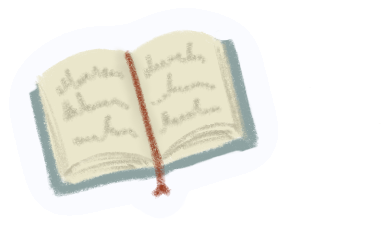
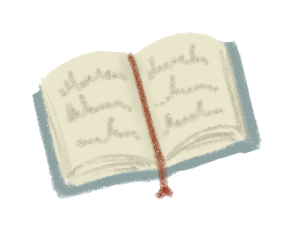
Regenerate every die cut at one uniform width
The borders were drawn by hand at six different scales: measured against each
drawing's own height they ran from 7.6% on the controller to 13.3% on the
plane. That spread is what read as inconsistent, not the drawings.

Each sticker is now rebuilt from Uju's source export: the hand-drawn white is
stripped and a new border grown from the artwork's own alpha at 8% of its
longest edge. Same rule for all six, so they are consistent by construction
rather than by eye.

Stripping the old white changed the proportions, so the placement block is
regenerated from the new aspects. All six render at exactly 190px tall.

Source exports are untouched.

diff --git a/index.html b/index.html
@@ -31,7 +31,7 @@
         href="https://fonts.googleapis.com/css2?family=Mona+Sans:wght@400;500;700;800&display=swap">
 
   <!-- bump ?v= when you edit these, so browsers pick up the change -->
-  <link rel="stylesheet" href="css/style.css?v=39">
+  <link rel="stylesheet" href="css/style.css?v=40">
 
   <!-- Artwork can be .png or .svg. Try png, then svg, then show the word (or a blank cover).
        Defined here because images start loading before the body script runs. -->
@@ -77,55 +77,55 @@
            whole idea, so keep it if you restyle these. -->
       <div class="stage" id="stage">
         <figure class="me">
-          <img src="assets/me-in-bubble.png?v=39" alt="Uju, sitting cross-legged and reading"
-               onerror="pickFormat(this, 'assets/me-in-bubble.svg?v=39')">
+          <img src="assets/me-in-bubble.png?v=40" alt="Uju, sitting cross-legged and reading"
+               onerror="pickFormat(this, 'assets/me-in-bubble.svg?v=40')">
           <figcaption class="placeholder-note">assets/me-in-bubble.png</figcaption>
         </figure>
 
         <button class="sticker" data-sound="reading" data-started>
           <span class="sticker-inner">
-            <img class="sticker-art" src="assets/stickers/reading.png?v=39" alt=""
-                 onerror="pickFormat(this, 'assets/stickers/reading.svg?v=39')">
+            <img class="sticker-art" src="assets/stickers/reading.png?v=40" alt=""
+                 onerror="pickFormat(this, 'assets/stickers/reading.svg?v=40')">
             <span class="sticker-shine" aria-hidden="true"></span>
             <span class="sticker-label">Reading</span>
           </span>
         </button>
         <button class="sticker" data-sound="plane">
           <span class="sticker-inner">
-            <img class="sticker-art" src="assets/stickers/plane.png?v=39" alt=""
-                 onerror="pickFormat(this, 'assets/stickers/plane.svg?v=39')">
+            <img class="sticker-art" src="assets/stickers/plane.png?v=40" alt=""
+                 onerror="pickFormat(this, 'assets/stickers/plane.svg?v=40')">
             <span class="sticker-shine" aria-hidden="true"></span>
             <span class="sticker-label">Travel</span>
           </span>
         </button>
         <button class="sticker" data-sound="singing">
           <span class="sticker-inner">
-            <img class="sticker-art" src="assets/stickers/singing.png?v=39" alt=""
-                 onerror="pickFormat(this, 'assets/stickers/singing.svg?v=39')">
+            <img class="sticker-art" src="assets/stickers/singing.png?v=40" alt=""
+                 onerror="pickFormat(this, 'assets/stickers/singing.svg?v=40')">
             <span class="sticker-shine" aria-hidden="true"></span>
             <span class="sticker-label">Singing</span>
           </span>
         </button>
         <button class="sticker" data-sound="guitar">
           <span class="sticker-inner">
-            <img class="sticker-art" src="assets/stickers/guitar.png?v=39" alt=""
-                 onerror="pickFormat(this, 'assets/stickers/guitar.svg?v=39')">
+            <img class="sticker-art" src="assets/stickers/guitar.png?v=40" alt=""
+                 onerror="pickFormat(this, 'assets/stickers/guitar.svg?v=40')">
             <span class="sticker-shine" aria-hidden="true"></span>
             <span class="sticker-label">Guitar</span>
           </span>
         </button>
         <button class="sticker" data-sound="drawing">
           <span class="sticker-inner">
-            <img class="sticker-art" src="assets/stickers/drawing.png?v=39" alt=""
-                 onerror="pickFormat(this, 'assets/stickers/drawing.svg?v=39')">
+            <img class="sticker-art" src="assets/stickers/drawing.png?v=40" alt=""
+                 onerror="pickFormat(this, 'assets/stickers/drawing.svg?v=40')">
             <span class="sticker-shine" aria-hidden="true"></span>
             <span class="sticker-label">Drawing</span>
           </span>
         </button>
         <button class="sticker" data-sound="games">
           <span class="sticker-inner">
-            <img class="sticker-art" src="assets/stickers/games.png?v=39" alt=""
-                 onerror="pickFormat(this, 'assets/stickers/games.svg?v=39')">
+            <img class="sticker-art" src="assets/stickers/games.png?v=40" alt=""
+                 onerror="pickFormat(this, 'assets/stickers/games.svg?v=40')">
             <span class="sticker-shine" aria-hidden="true"></span>
             <span class="sticker-label">Games</span>
           </span>
@@ -227,8 +227,8 @@
     <p class="footer-fine">© <span id="year">2026</span> Uju Duru</p>
   </footer>
 
-  <script src="js/site.js?v=39"></script>
-  <script src="js/stickers.js?v=39"></script>
-  <script src="js/carousel.js?v=39"></script>
+  <script src="js/site.js?v=40"></script>
+  <script src="js/stickers.js?v=40"></script>
+  <script src="js/carousel.js?v=40"></script>
 </body>
 </html>

diff --git a/css/style.css b/css/style.css
@@ -229,21 +229,23 @@ a { color: inherit; }
 
 /* ---------- Sticker placement ----------
    Kept here rather than inline so the mobile block below can
-   override it; inline styles would win over any media query. */
-.sticker[data-sound="reading"] { --x: 23.9%; --y: 18.3%; --tilt: -13deg; --size: clamp(88px, 44.00cqh, 484px); }
+   override it; inline styles would win over any media query.
+   --size drives the LONGEST edge, so a wide drawing needs a bigger
+   box to end up the same height as a tall one. */
+.sticker[data-sound="reading"] { --x: 23.9%; --y: 18.3%; --tilt: -13deg; --size: clamp(58px, 29.17cqh, 321px); }
 .sticker[data-sound="singing"] { --x: 13.8%; --y: 52.1%; --tilt: 10deg; --size: clamp(50px, 25.00cqh, 275px); }
 .sticker[data-sound="drawing"] { --x: 26.3%; --y: 80.6%; --tilt: -4deg; --size: clamp(50px, 25.00cqh, 275px); }
 .sticker[data-sound="plane"] { --x: 76.1%; --y: 18.3%; --tilt: 6deg; --size: clamp(50px, 25.00cqh, 275px); }
 .sticker[data-sound="guitar"] { --x: 86.2%; --y: 52.1%; --tilt: -15deg; --size: clamp(50px, 25.00cqh, 275px); }
-.sticker[data-sound="games"] { --x: 73.7%; --y: 80.6%; --tilt: 12deg; --size: clamp(60px, 29.75cqh, 327px); }
+.sticker[data-sound="games"] { --x: 73.7%; --y: 80.6%; --tilt: 12deg; --size: clamp(58px, 29.09cqh, 320px); }
 
 @media (max-width: 560px) {
-  .sticker[data-sound="reading"] { --x: 29%; --size: clamp(67px, 33.44cqh, 368px); }
+  .sticker[data-sound="reading"] { --x: 29%; --size: clamp(44px, 22.17cqh, 244px); }
   .sticker[data-sound="singing"] { --x: 17%; --size: clamp(38px, 19.00cqh, 209px); }
   .sticker[data-sound="drawing"] { --x: 27%; --size: clamp(38px, 19.00cqh, 209px); }
   .sticker[data-sound="plane"] { --x: 71%; --size: clamp(38px, 19.00cqh, 209px); }
   .sticker[data-sound="guitar"] { --x: 83%; --size: clamp(38px, 19.00cqh, 209px); }
-  .sticker[data-sound="games"] { --x: 73%; --size: clamp(45px, 22.61cqh, 249px); }
+  .sticker[data-sound="games"] { --x: 73%; --size: clamp(44px, 22.11cqh, 243px); }
 }
 
 /* ---------- Stickers ---------- */
